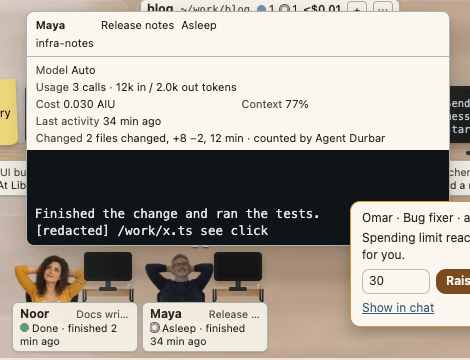
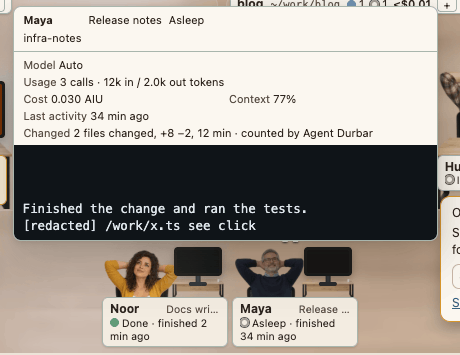
097: nothing paints over the hover card (slips avoided and under it); crops retaken

diff --git a/scripts/check-097-hover-card.js b/scripts/check-097-hover-card.js
@@ -68,6 +68,11 @@ module.exports = async (ctx) => {
       facts:[...z.querySelectorAll('.ro-zk .ro-zi')].map(e=>[e.querySelector('.ro-zy').textContent,e.querySelector('.ro-zv').textContent]),rows:[...z.querySelectorAll('.ro-zl .ro-sl')].map(e=>e.textContent),text:z.textContent,small,
       inside:b.left>=-0.5&&b.top>=-0.5&&b.right<=innerWidth+0.5&&b.bottom<=innerHeight+0.5,coversPlate:b.left<pl.right&&pl.left<b.right&&b.top<pl.bottom&&pl.top<b.bottom,
       w:b.width,aria:z.getAttribute('aria-label'),region:z.getAttribute('role'),live:z.getAttribute('aria-live'),node:z.dataset.node||(z.dataset.node=String(Math.random()))}})()`);
+  /* FR-330: nothing paints over the card. The panel takes no pointer events, so for this read it takes them for a moment: the topmost element at its corners and centre must be the panel */
+  const onTop = (what) => js(`(()=>{const z=document.getElementById('roZoom');z.style.pointerEvents='auto';const b=z.getBoundingClientRect(),bad=[];
+    for(const [fx,fy] of [[.5,.5],[.02,.04],[.98,.04],[.02,.96],[.98,.96],[.5,.04],[.5,.96]]){const x=b.left+(b.width-1)*fx,y=b.top+(b.height-1)*fy,e=document.elementFromPoint(x,y);if(!e||!z.contains(e))bad.push(Math.round(x)+','+Math.round(y)+' '+(e&&(e.className||e.tagName)));}
+    z.style.pointerEvents='';const slips=[...document.querySelectorAll('#stage .ro-slip:not([hidden])')].filter(e=>{const r=e.getBoundingClientRect();return r.left<b.right&&b.left<r.right&&r.top<b.bottom&&b.top<r.bottom}).length;
+    return {bad,slips}})()`).then((r) => { assert.deepStrictEqual(r.bad, [], `${what}: something paints over the card: ${JSON.stringify(r.bad)}`); assert.strictEqual(r.slips, 0, `${what}: a slip lies over the card`); });
   const noBad = (what, c) => { for (const b of BAD) assert.ok(!c.text.includes(b), `${what}: the card shows ${JSON.stringify(b)}: ${c.text}`); };
 
   const shots = [];
@@ -92,6 +97,7 @@ module.exports = async (ctx) => {
     const c1 = await card();
     assert.ok(c1 && c1.id === wk && c1.node === c0.node, `${tag}: moving over the parts of one desk keeps the same panel (${c0 && c0.node} then ${c1 && c1.node})`);
     assert.ok(!c1.small.length && c1.inside && !c1.coversPlate && c1.w >= 379 && c1.w <= 481, `${tag}: the card: no text under 10.5 px (${c1.small}), inside the window, not over its plate, 380-480 px wide (${c1.w})`);
+    await onTop(`${tag} desk`);
     assert.strictEqual(c1.live, null, `${tag}: not a live region`);
     assert.ok(c1.facts.every(([k]) => k !== 'Changed'), `${tag}: an agent at a desk has no Changed line (FR-329): ${JSON.stringify(c1.facts)}`);
     await moveTo(1, 1);
@@ -130,6 +136,7 @@ module.exports = async (ctx) => {
       const want = id === 'sim-4' ? /^6 files changed, \+120 −35, 1 commit, 40 min · counted by Agent Durbar$/ : /^2 files changed, \+8 −2, 12 min · counted by Agent Durbar$/;
       assert.ok(ch && want.test(ch[1]), `${tag} ${what}: the Changed line in the flat office's words: ${JSON.stringify(ch)}`);
       noBad(`${tag} ${what}`, c);
+      await onTop(`${tag} ${what}`);
       assert.ok(!c.small.length && c.inside && !c.coversPlate && c.w >= 379 && c.w <= 481, `${tag} ${what}: the card: no text under 10.5 px (${c.small}), inside the window, not over its plate, 380-480 px wide (${c.w})`);
       assert.strictEqual(await js(`(()=>{const f=document.getElementById('floor');return f.scrollHeight<=f.clientHeight+1})()`), true, `${tag} ${what}: the office does not scroll`);
       const file = path.join(OUT, `097-hover-${what}-${w}x${h}.png`);

diff --git a/src/renderer/realoffice.css b/src/renderer/realoffice.css
@@ -61,7 +61,7 @@
 .ro-caret{position:absolute;right:3px;bottom:5px;width:5px;height:9px;background:var(--ro-scr-reply);animation:ro-blink var(--ro-per,1.3s) step-end infinite}
 .ro-chrome>:is(.ro-bub,.ro-bang,.ro-dots){pointer-events:none} /* cues over a screen or a person: a hover or a click goes to what is under them */
 /* FR-034: the zoom, over everything; opaque, no blur (FR-182); the theme colours its frame, the glass stays a screen */
-.ro-zoom{position:absolute;z-index:5;display:flex;flex-direction:column;overflow:hidden;pointer-events:none;background:var(--surface);color:var(--ink);border:1px solid var(--line);border-radius:8px;box-shadow:var(--shadow-pop,0 8px 24px rgba(0,0,0,.3))}
+.ro-zoom{position:absolute;z-index:7;display:flex;flex-direction:column;overflow:hidden;pointer-events:none;background:var(--surface);color:var(--ink);border:1px solid var(--line);border-radius:8px;box-shadow:var(--shadow-pop,0 8px 24px rgba(0,0,0,.3))}
 .ro-zh,.ro-zk{flex:none;display:grid;grid-template-columns:auto auto 1fr;column-gap:7px;align-items:baseline;padding:4px 9px;font-size:11px;line-height:17px}
 .ro-zh{height:44px}
 .ro-zk{grid-template-columns:1fr 1fr;border-top:1px solid var(--line)}

diff --git a/src/renderer/realoffice.js b/src/renderer/realoffice.js
@@ -938,7 +938,7 @@
   function placeZoom() {
     const ro = CUR.ro, o = ro.getBoundingClientRect(), fl = ro.closest('#floor'), f = fl ? fl.getBoundingClientRect() : o, d = CUR.desks.get(ZOOM.id);
     const near = (e) => { const b = e.getBoundingClientRect(); return { x: b.left - o.left, y: b.top - o.top, w: b.width, h: b.height }; };
-    const avoid = [d.screen, ...[...ro.querySelectorAll('.ro-plate:is(.st-waiting,.st-limit), .ro-lplate.wait, .ro-chip.wait')].map(near)];
+    const avoid = [d.screen, ...[...ro.querySelectorAll('.ro-plate:is(.st-waiting,.st-limit), .ro-lplate.wait, .ro-chip.wait, .ro-slip:not([hidden])')].map(near)]; /* FR-330 (2026-11-08): a slip or bubble (FR-110) is avoided too; the card is painted above them (CSS) for when no free place is left */
     if (ZOOM.plate) avoid.push(near(ZOOM.plate));
     const view = { x: Math.max(0, f.left - o.left), y: Math.max(0, f.top - o.top), w: Math.min(f.right, o.right) - Math.max(f.left, o.left), h: Math.min(f.bottom, o.bottom) - Math.max(f.top, o.top) };
     const w = Math.max(ZOOM_W[0], Math.min(ZOOM_W[1], view.w * 0.34));

diff --git a/specs/097-real-office/spec.md b/specs/097-real-office/spec.md
@@ -1155,7 +1155,7 @@ Found in the security review of #1286, on main, not caused by it. The words of a
 - **FR-327** **Hover anywhere on the desk.** A pointer over a desk's person, desk (or lounge table), monitor or name plate opens the same zoom as the monitor does, after the same 120 ms, with the same Esc hold and the same close on leaving. Moving between the parts of one desk keeps the one panel. Visitors, chips and lobby plates are unchanged. Amends FR-034's "on a screen".
 - **FR-328** **Asleep agents have the card.** The zoom opens for an asleep agent (hover and focus): the head, the masked last reply as its lines (the glass stays dark and textless, FR-035), the facts. Amends FR-035's and FR-249's "does not open" and keeps FR-120's promise.
 - **FR-329** **Changed.** A resting or asleep agent's zoom has a wide fact **Changed**: the flat peek's words, `<numbers> · counted by Agent Durbar`, wrapping to two lines when needed (never cut). It is read once per reply by `refreshLoungeSummary`, which the room model builder shared with Real already calls for every resting agent (one read in flight, nothing stored; found by a mutant: Real never needed its own call); an agent with no numbers has none (no invented zero); an agent at a desk has none.
-- **FR-330** **Same rules.** Everything shown goes through the zoom's masks (FR-314); no new element on the floor; 11 px or more; the panel keeps FR-034's size and placement.
+- **FR-330** **Same rules.** Everything shown goes through the zoom's masks (FR-314); no new element on the floor; 11 px or more; the panel keeps FR-034's size and placement. **Nothing covers the card** (found in review of the pictures): a slip or bubble (FR-110) is on the card's avoid list like a needs-you plate, so the card takes another place; and the card is painted above the slips (`z-index` 7 over the slips' 6) for the case that no free place is left, so a transient card is never under a panel. Test: the driver takes the card's pointer events for a moment and asks `elementFromPoint` at its corners and centre; mutant: the old placement and z-order fail it at 1440x900 (the Omar slip over the asleep card).
 
 **Q25** (owner): list helpers in the zoom (a **Helpers** fact, "2 running, 1 done")? Recommended **no for now**: the flat office does not show them on hover, and parity is with flat; the spec line is corrected instead. Options: (a) correct the line (recommended), (b) add the fact.
 
